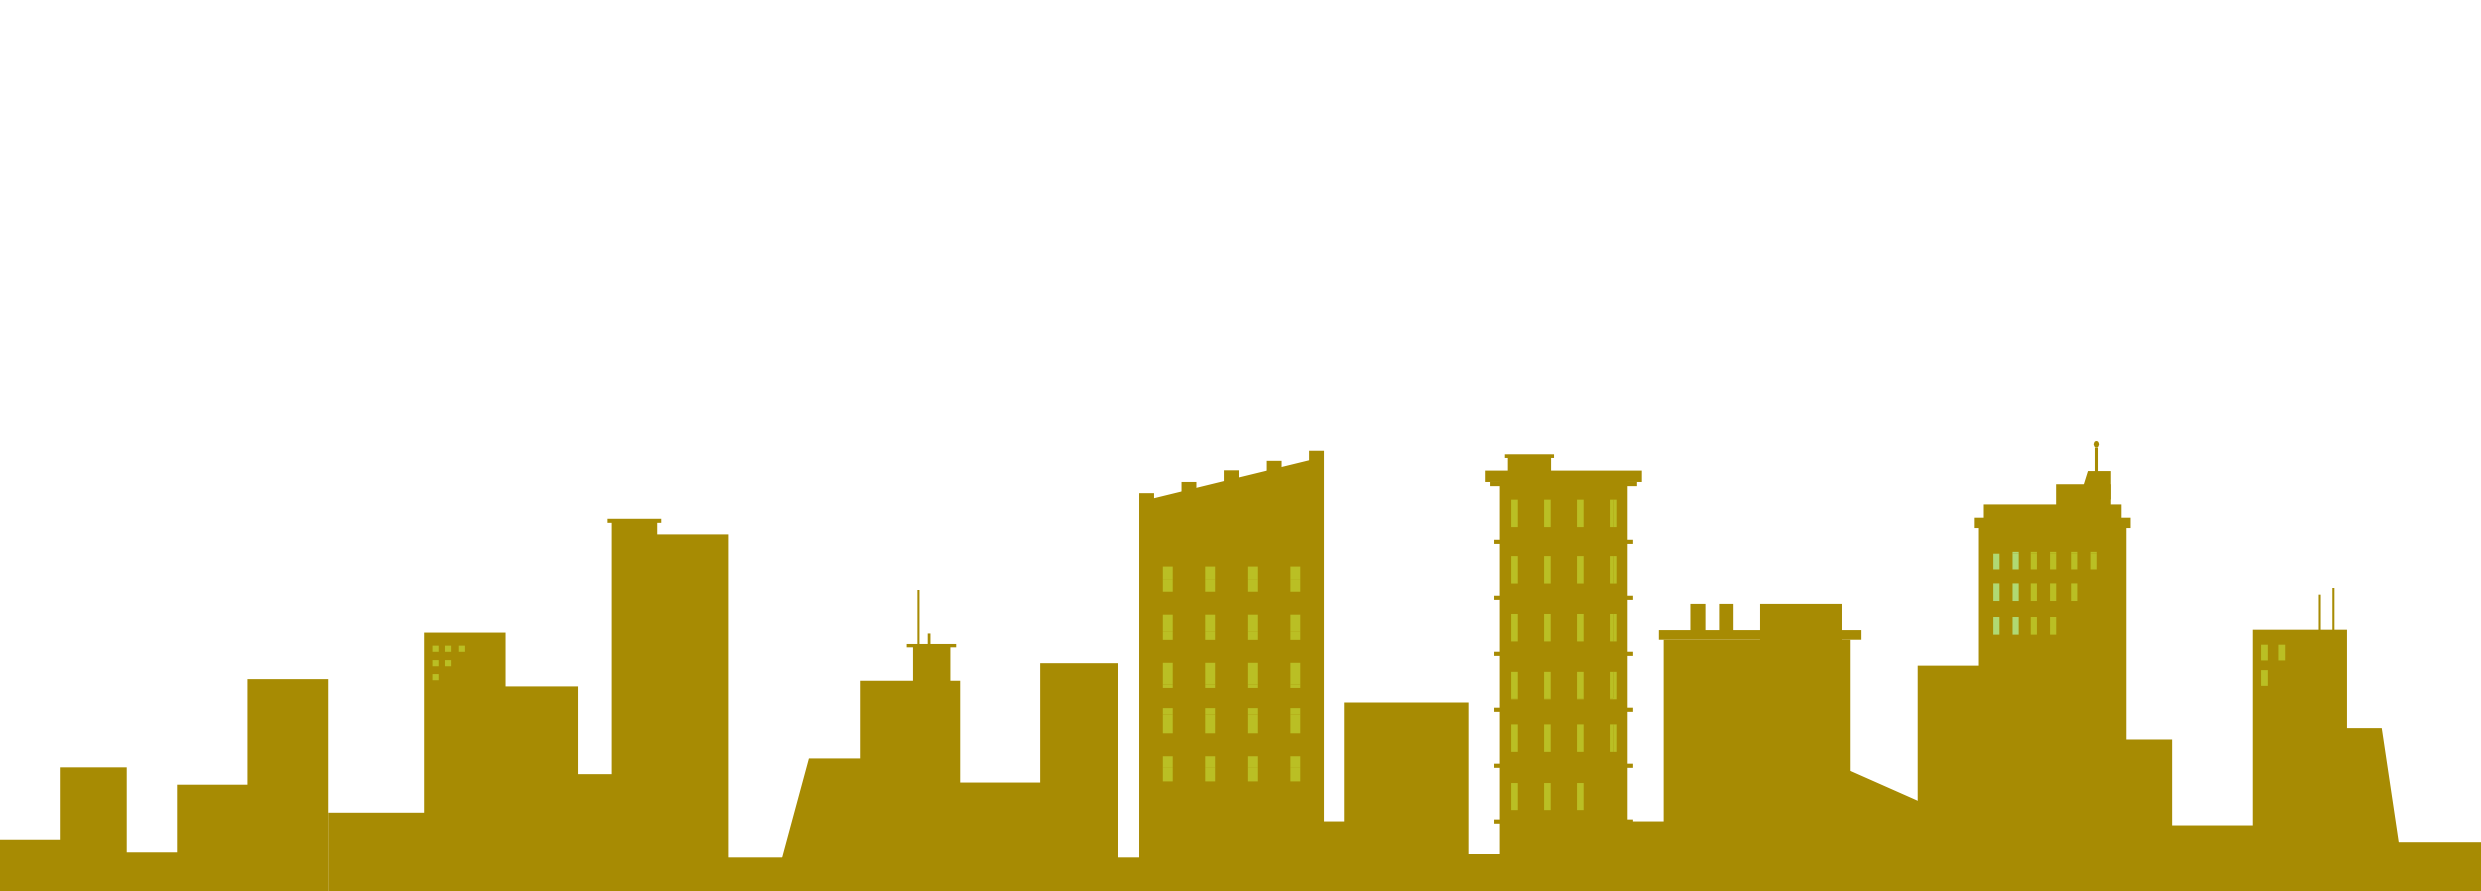
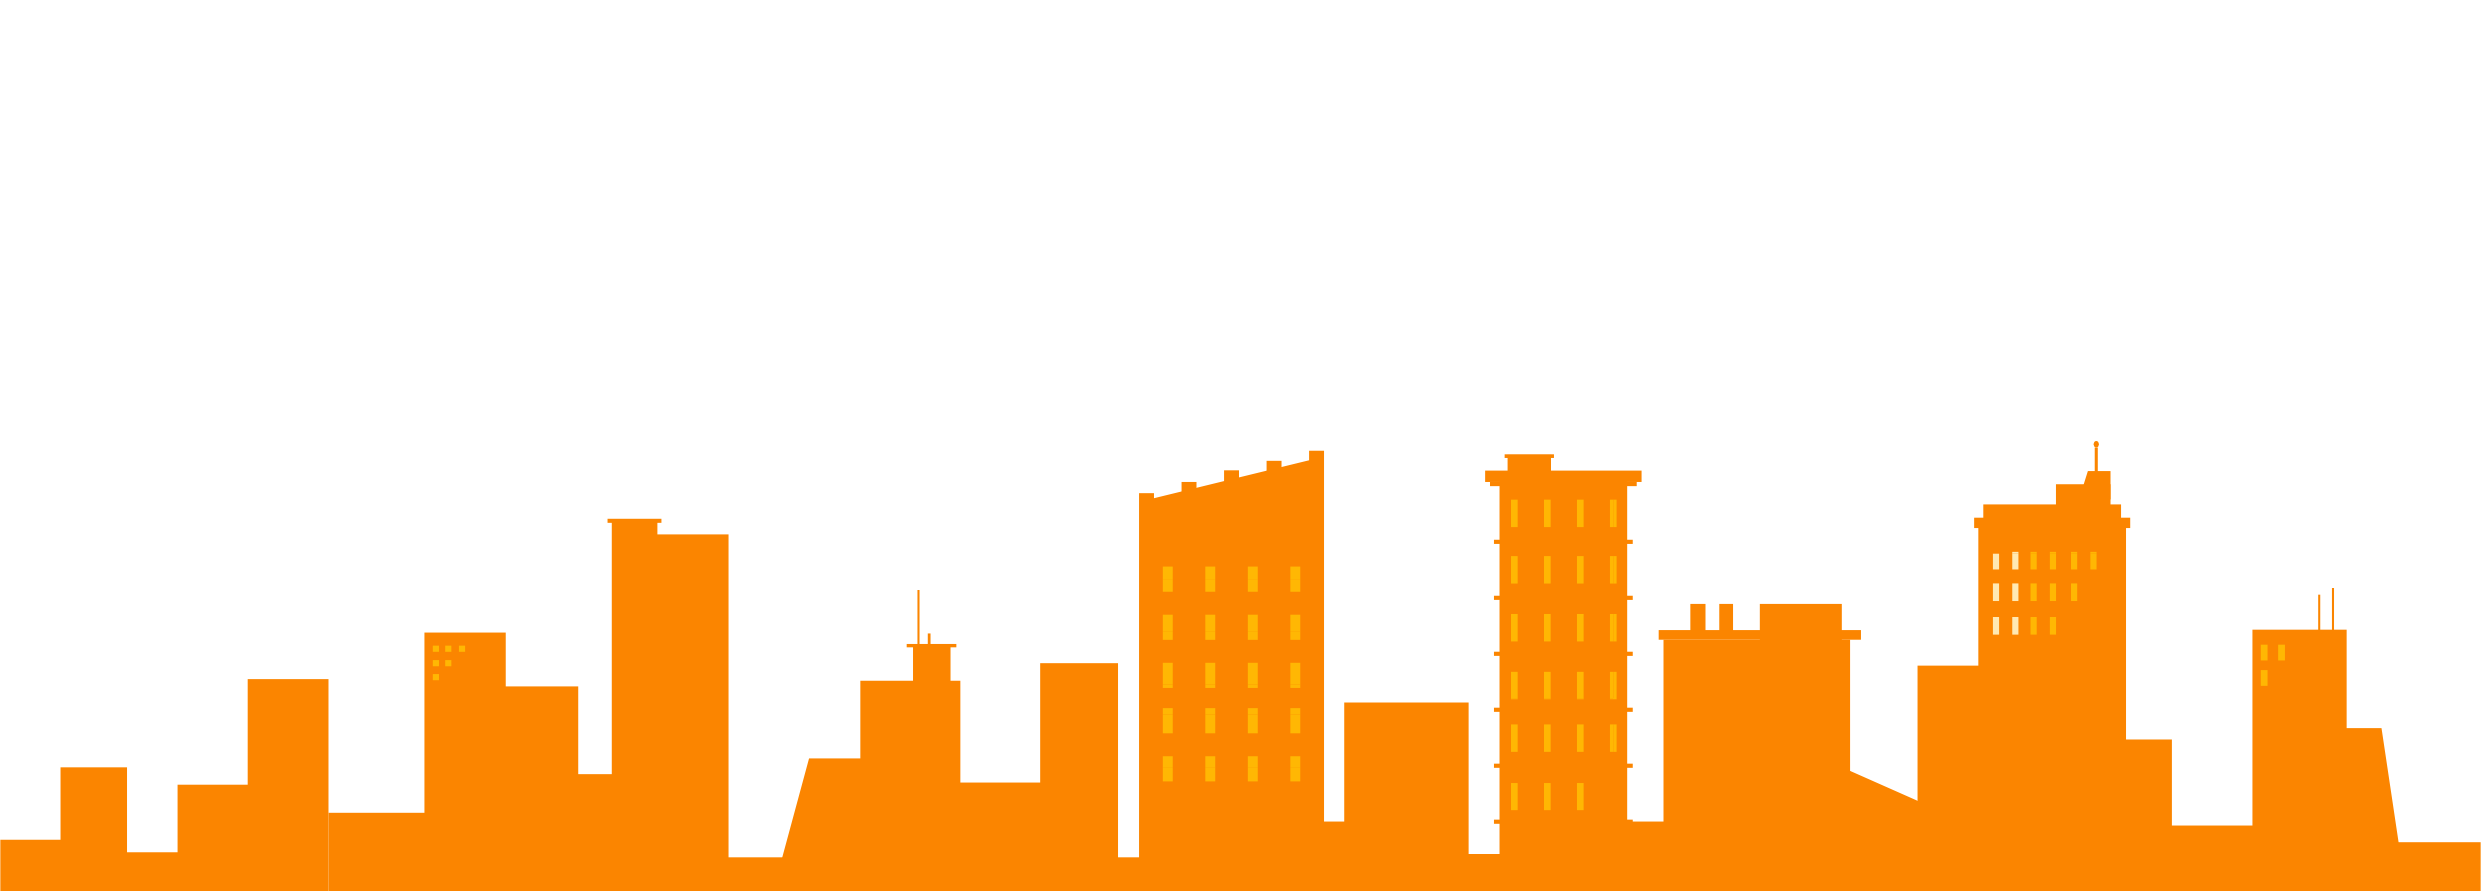
ganti color pallete

Changed region(s): [[0.0, 0.5152, 1.0, 1.0]]

diff --git a/src/components/Section4.js b/src/components/Section4.js
@@ -8,12 +8,12 @@ const Section4 = () => {
       <Box
         sx={{
           paddingX: "16px",
-          paddingTop: "80px",
+          paddingY: "80px",
           display: { xs: "block", md: "flex" },
           flexDirection: { md: "row-reverse" },
           justifyContent: { md: "center" },
           gap: { md: "40px" },
-          backgroundColor: color.darkYellow,
+          backgroundColor: color.orange,
         }}
       >
         <Box
@@ -22,7 +22,7 @@ const Section4 = () => {
             height: { xs: "180px", md: "200px" },
             marginX: { xs: "auto", md: "0px" },
             marginBottom: { xs: "32px", md: "0px" },
-            backgroundColor: { xs: color.semiDarkYellow },
+            backgroundColor: { xs: color.yellow },
             borderRadius: { xs: "100%" },
             overflow: { xs: "hidden" },
           }}
@@ -62,21 +62,6 @@ const Section4 = () => {
           </Typography>
         </Box>
       </Box>
-      <svg
-        xmlns="http://www.w3.org/2000/svg"
-        style={{
-          backgroundColor: color.lightBlue,
-          position: "relative",
-          zIndex: 15,
-        }}
-        viewBox="0 0 1440 320"
-      >
-        <path
-          fill="#A68B03"
-          fill-opacity="1"
-          d="M0,96L30,90.7C60,85,120,75,180,106.7C240,139,300,213,360,224C420,235,480,181,540,138.7C600,96,660,64,720,85.3C780,107,840,181,900,186.7C960,192,1020,128,1080,112C1140,96,1200,128,1260,122.7C1320,117,1380,75,1410,53.3L1440,32L1440,0L1410,0C1380,0,1320,0,1260,0C1200,0,1140,0,1080,0C1020,0,960,0,900,0C840,0,780,0,720,0C660,0,600,0,540,0C480,0,420,0,360,0C300,0,240,0,180,0C120,0,60,0,30,0L0,0Z"
-        ></path>
-      </svg>
     </>
   );
 };

diff --git a/src/components/Section2.js b/src/components/Section2.js
@@ -15,7 +15,7 @@ const Section2 = () => {
       sx={{
         paddingX: { xs: "16px", md: "40px", xl: "0px" },
         paddingY: { xs: "56px" },
-        backgroundColor: color.blue,
+        backgroundColor: color.lightBlue,
       }}
     >
       <Box
@@ -35,7 +35,7 @@ const Section2 = () => {
               width: { xs: "100%", md: "470px" },
               fontSize: { xs: "12px", sm: "16px" },
               textAlign: { xs: "center", md: "left" },
-              color: { xs: color.white },
+              color: { xs: color.darkBlue },
             }}
           >
             Sekitar <span style={{ fontWeight: "bold" }}>3,5 miliar orang</span>{" "}
@@ -65,7 +65,7 @@ const Section2 = () => {
                 sx={{
                   position: "relative",
                   zIndex: 10 - index,
-                  backgroundColor: color.blue,
+                  backgroundColor: color.lightBlue,
                 }}
                 data-aos="fade-right"
                 data-aos-duration="100"
@@ -76,7 +76,7 @@ const Section2 = () => {
                     index > 4
                       ? {
                           fontSize: { xs: "40px", sm: "60px", lg: "80px" },
-                          color: color.black,
+                          color: color.darkBlue,
                         }
                       : {
                           fontSize: { xs: "40px", sm: "60px", lg: "80px" },

diff --git a/src/themes/Color.js b/src/themes/Color.js
@@ -2,11 +2,11 @@ const color = {
   white: "#F6F4EB",
   black: "#181823",
   grey: "#D8D9DA",
-  blue: "#6AA5D9",
-  lightBlue: "#A9C6D9",
-  lightGreen: "#B0D973",
-  semiDarkYellow: "#BABF24",
-  darkYellow: "#A68B03",
+  blue: "#219EBC",
+  lightBlue: "#8ECAE6",
+  darkBlue: "#023047",
+  yellow: "#FFB703",
+  orange: "#FB8500",
 };
 
 export default color;

diff --git a/src/components/Section5.js b/src/components/Section5.js
@@ -130,11 +130,10 @@ const Section5 = () => {
       dragging={false}
       style={{
         position: "sticky",
-        top: "70px",
+        top: "0px",
         width: "100%",
         height: "100vh",
         backgroundColor: color.lightBlue,
-        transform: "translateY(-70px)",
       }}
     >
       <TileLayer

diff --git a/src/components/Section3.js b/src/components/Section3.js
@@ -22,7 +22,7 @@ const Section3 = () => {
       sx={{
         paddingX: { xs: "16px", md: "40px", xl: "0px" },
         overflowX: { xs: "hidden" },
-        backgroundColor: color.blue,
+        backgroundColor: color.lightBlue,
       }}
     >
       <Box
